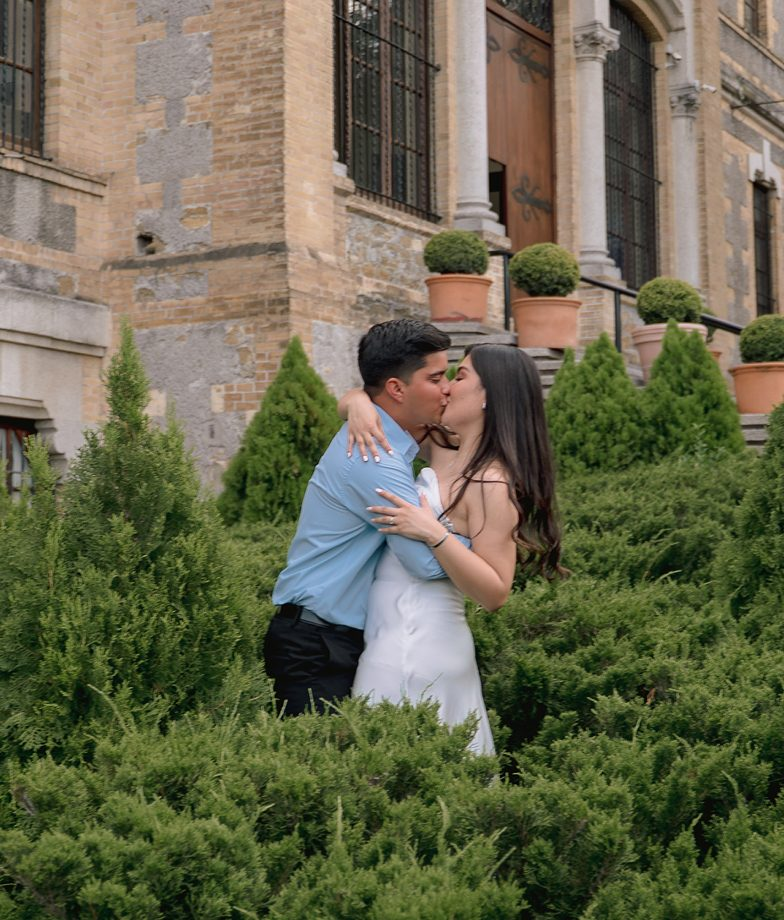
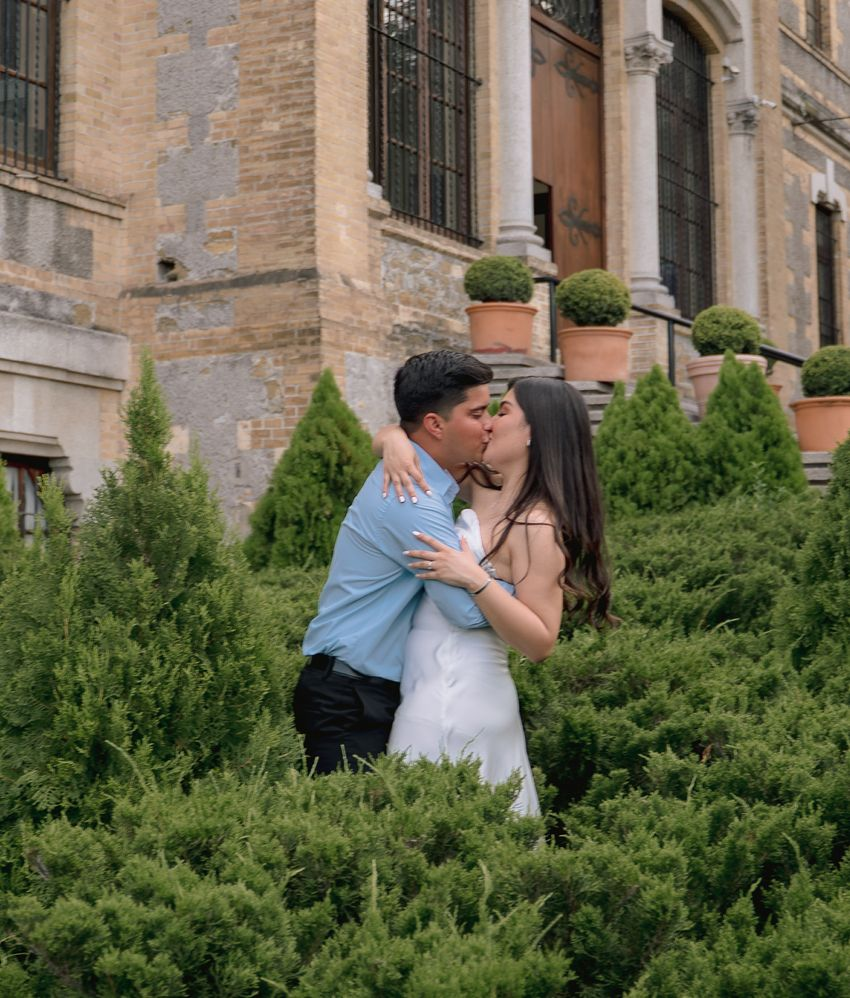
Rehace las 17 fotos de escritorio y pasa todo el sitio a WebP
Cierra lo que quedaba de la auditoria: hero, save the date y pie servian
entre el 75% y el 79% de lo que pide un portatil Retina, y las 12 del slider
el 98%. Rehechas desde los originales de la sesion:

  hero-desktop        2400x1487 -> 2604x1613
  save-date-desktop   2268x1731 -> 2400x1832
  footer-desktop      1600x1104 -> 2040x1408
  itinerario-desktop  1000x1362 -> 1100x1498
  form-desktop        1112x1076 -> 1200x1161
  slider 1..12         784x920  ->  850x998

Las medidas salen de medir los contenedores en la pagina y escalarlos a un
portatil de 1512pt a 2x, no de estimarlas.

El encuadre se conservo igual que en las de movil: recortes viejos
recuperados de git y region localizada por correlacion cruzada. Los 17 por
encima de 0.95. Varios recortes eran zooms fuertes —el 12 usa solo el 34% del
ancho del original, el 1 y el 8 el 56%— y se respetaron.

DOS TOPES QUE CONVIENE SABER:

El hero se queda en 2604px, el 86% de los 3024 que pediria cubrirlo del todo.
No es una decision: el original entregado mide 2604 de ancho y el recorte usa
el 100%, asi que no hay mas de donde sacar. Para llegar a 3024 haria falta un
original mas grande de esa foto.

save-date es la foto cara del sitio: blanco y negro, arbustos densos y grano
(desviacion del laplaciano 36.5, cuando por encima de 12 ya se considera
grano). No comprime. Se probo si al ser gris se ganaba algo codificando sin
croma y no: WebP ya lo resuelve. Se eligio 2400px q70, que cubre el 79%
[…]

diff --git a/index.html b/index.html
@@ -2005,7 +2005,7 @@
 
   <div class="page-wrapper">
     <section class="section-hero section">
-      <div class="div-block"><img src="images/hero-desktop-fr.jpg" loading="eager" width="Auto" alt="" class="hero-bg"><picture><source srcset="images/hero-mobile-fr.webp" type="image/webp"><img
+      <div class="div-block"><picture><source srcset="images/hero-desktop-fr.webp" type="image/webp"><img src="images/hero-desktop-fr.jpg" loading="eager" width="Auto" alt="" class="hero-bg"></picture><picture><source srcset="images/hero-mobile-fr.webp" type="image/webp"><img
           src="images/hero-mobile-fr.jpg" loading="lazy" alt="" class="hero-bg-mobile"></picture></div>
       <div class="hero__image-wrapper"><span role="img" aria-label="Fernanda y Roberto"
           class="logo-hero-sm logo-tinta"></span><span role="img" aria-label="Fernanda y Roberto"
@@ -2046,38 +2046,38 @@
         class="w-layout-blockcontainer container-slider desktop w-container">
         <div class="gallery-images desktop">
           <div class="gallery-column top-bottom">
-            <div class="gallery__mage-container"><img data-w-id="3d7170dc-5339-9a1f-2682-d0673b212aa9" alt=""
-                src="images/slider-desktop-fr-1.jpg" loading="lazy" class="gallery-image padding">
+            <div class="gallery__mage-container"><picture><source srcset="images/slider-desktop-fr-1.webp" type="image/webp"><img data-w-id="3d7170dc-5339-9a1f-2682-d0673b212aa9" alt=""
+                src="images/slider-desktop-fr-1.jpg" loading="lazy" class="gallery-image padding"></picture>
             </div>
-            <div class="gallery__mage-container"><img data-w-id="3d7170dc-5339-9a1f-2682-d0673b212aab" alt=""
-                src="images/slider-desktop-fr-2.jpg" loading="lazy" class="gallery-image"></div>
-            <div class="gallery__mage-container"><img data-w-id="3d7170dc-5339-9a1f-2682-d0673b212aad" alt=""
-                src="images/slider-desktop-fr-3.jpg" loading="lazy" class="gallery-image"></div>
-            <div class="gallery__mage-container"><img data-w-id="3d7170dc-5339-9a1f-2682-d0673b212aaf" alt=""
-                src="images/slider-desktop-fr-4.jpg" loading="lazy" class="gallery-image"></div>
+            <div class="gallery__mage-container"><picture><source srcset="images/slider-desktop-fr-2.webp" type="image/webp"><img data-w-id="3d7170dc-5339-9a1f-2682-d0673b212aab" alt=""
+                src="images/slider-desktop-fr-2.jpg" loading="lazy" class="gallery-image"></picture></div>
+            <div class="gallery__mage-container"><picture><source srcset="images/slider-desktop-fr-3.webp" type="image/webp"><img data-w-id="3d7170dc-5339-9a1f-2682-d0673b212aad" alt=""
+                src="images/slider-desktop-fr-3.jpg" loading="lazy" class="gallery-image"></picture></div>
+            <div class="gallery__mage-container"><picture><source srcset="images/slider-desktop-fr-4.webp" type="image/webp"><img data-w-id="3d7170dc-5339-9a1f-2682-d0673b212aaf" alt=""
+                src="images/slider-desktop-fr-4.jpg" loading="lazy" class="gallery-image"></picture></div>
           </div>
           <div class="gallery-column botom-top">
-            <div class="gallery__mage-container"><img alt=""
-                src="images/slider-desktop-fr-5.jpg" loading="lazy" class="gallery-image"></div>
-            <div class="gallery__mage-container"><img data-w-id="3d7170dc-5339-9a1f-2682-d0673b212ab4" alt=""
-                src="images/slider-desktop-fr-6.jpg" loading="lazy" class="gallery-image"></div>
-            <div class="gallery__mage-container"><img data-w-id="3d7170dc-5339-9a1f-2682-d0673b212ab6" alt=""
-                src="images/slider-desktop-fr-7.jpg" loading="lazy" class="gallery-image"></div>
-            <div class="gallery__mage-container"><img data-w-id="3d7170dc-5339-9a1f-2682-d0673b212ab8" alt=""
-                src="images/slider-desktop-fr-8.jpg" loading="lazy" class="gallery-image"></div>
-            <div class="gallery__mage-container"><img data-w-id="3d7170dc-5339-9a1f-2682-d0673b212aba" alt=""
-                src="images/slider-desktop-fr-5.jpg" loading="lazy" class="gallery-image"></div>
+            <div class="gallery__mage-container"><picture><source srcset="images/slider-desktop-fr-5.webp" type="image/webp"><img alt=""
+                src="images/slider-desktop-fr-5.jpg" loading="lazy" class="gallery-image"></picture></div>
+            <div class="gallery__mage-container"><picture><source srcset="images/slider-desktop-fr-6.webp" type="image/webp"><img data-w-id="3d7170dc-5339-9a1f-2682-d0673b212ab4" alt=""
+                src="images/slider-desktop-fr-6.jpg" loading="lazy" class="gallery-image"></picture></div>
+            <div class="gallery__mage-container"><picture><source srcset="images/slider-desktop-fr-7.webp" type="image/webp"><img data-w-id="3d7170dc-5339-9a1f-2682-d0673b212ab6" alt=""
+                src="images/slider-desktop-fr-7.jpg" loading="lazy" class="gallery-image"></picture></div>
+            <div class="gallery__mage-container"><picture><source srcset="images/slider-desktop-fr-8.webp" type="image/webp"><img data-w-id="3d7170dc-5339-9a1f-2682-d0673b212ab8" alt=""
+                src="images/slider-desktop-fr-8.jpg" loading="lazy" class="gallery-image"></picture></div>
+            <div class="gallery__mage-container"><picture><source srcset="images/slider-desktop-fr-5.webp" type="image/webp"><img data-w-id="3d7170dc-5339-9a1f-2682-d0673b212aba" alt=""
+                src="images/slider-desktop-fr-5.jpg" loading="lazy" class="gallery-image"></picture></div>
           </div>
           <div class="gallery-column top-bottom">
-            <div class="gallery__mage-container"><img data-w-id="3d7170dc-5339-9a1f-2682-d0673b212abd" alt=""
-                src="images/slider-desktop-fr-9.jpg" loading="lazy" class="gallery-image padding">
+            <div class="gallery__mage-container"><picture><source srcset="images/slider-desktop-fr-9.webp" type="image/webp"><img data-w-id="3d7170dc-5339-9a1f-2682-d0673b212abd" alt=""
+                src="images/slider-desktop-fr-9.jpg" loading="lazy" class="gallery-image padding"></picture>
             </div>
-            <div class="gallery__mage-container"><img data-w-id="3d7170dc-5339-9a1f-2682-d0673b212abf" alt=""
-                src="images/slider-desktop-fr-10.jpg" loading="lazy" class="gallery-image"></div>
-            <div class="gallery__mage-container"><img data-w-id="3d7170dc-5339-9a1f-2682-d0673b212ac1" alt=""
-                src="images/slider-desktop-fr-11.jpg" loading="lazy" class="gallery-image"></div>
-            <div class="gallery__mage-container"><img data-w-id="3d7170dc-5339-9a1f-2682-d0673b212ac3" alt=""
-                src="images/slider-desktop-fr-12.jpg" loading="lazy" class="gallery-image"></div>
+            <div class="gallery__mage-container"><picture><source srcset="images/slider-desktop-fr-10.webp" type="image/webp"><img data-w-id="3d7170dc-5339-9a1f-2682-d0673b212abf" alt=""
+                src="images/slider-desktop-fr-10.jpg" loading="lazy" class="gallery-image"></picture></div>
+            <div class="gallery__mage-container"><picture><source srcset="images/slider-desktop-fr-11.webp" type="image/webp"><img data-w-id="3d7170dc-5339-9a1f-2682-d0673b212ac1" alt=""
+                src="images/slider-desktop-fr-11.jpg" loading="lazy" class="gallery-image"></picture></div>
+            <div class="gallery__mage-container"><picture><source srcset="images/slider-desktop-fr-12.webp" type="image/webp"><img data-w-id="3d7170dc-5339-9a1f-2682-d0673b212ac3" alt=""
+                src="images/slider-desktop-fr-12.jpg" loading="lazy" class="gallery-image"></picture></div>
           </div>
         </div>
         <div class="gallery-images mobile">
@@ -2122,6 +2122,7 @@
             <picture>
               <source media="(max-width: 767px)" type="image/webp" srcset="images/itinerario-mobile-fr.webp">
               <source media="(max-width: 767px)" srcset="images/itinerario-mobile-fr.jpg">
+              <source type="image/webp" srcset="images/itinerario-desktop-fr.webp">
               <img src="images/itinerario-desktop-fr.jpg" loading="lazy" alt="" class="image-3">
             </picture>
           </div>
@@ -2204,7 +2205,8 @@
         <picture>
           <source media="(max-width: 767px)" type="image/webp" srcset="images/save-date-mobile-fr.webp">
               <source media="(max-width: 767px)" srcset="images/save-date-mobile-fr.jpg">
-          <img src="images/save-date-desktop-fr.jpg" loading="lazy"
+          <source type="image/webp" srcset="images/save-date-desktop-fr.webp">
+              <img src="images/save-date-desktop-fr.jpg" loading="lazy"
             data-w-id="8f9860fb-0535-2ff2-ee87-84484ccd40b9" alt="" class="image-7">
         </picture>
       </div>
@@ -2249,6 +2251,7 @@
             <picture>
               <source media="(max-width: 767px)" type="image/webp" srcset="images/form-mobile-fr.webp">
               <source media="(max-width: 767px)" srcset="images/form-mobile-fr.jpg">
+              <source type="image/webp" srcset="images/form-desktop-fr.webp">
               <img src="images/form-desktop-fr.jpg" loading="lazy"
                 data-w-id="d141b00a-b9ab-bc81-c67e-60cb82b64fd8" alt="" class="form-img">
             </picture>
@@ -2323,8 +2326,8 @@
       <p class="footer_hash heading-3 reveal-up reveal-delay-2">#FeryBeto</p>
       <div>
         <div class="div-block-7">
-          <div class="footer_image-wrapper"><img src="images/footer-desktop-fr.jpg" loading="lazy" width="777" alt=""
-              class="footer_image-card"><picture><source srcset="images/footer-mobile-fr.webp" type="image/webp"><img src="images/footer-mobile-fr.jpg" loading="lazy" width="777" alt=""
+          <div class="footer_image-wrapper"><picture><source srcset="images/footer-desktop-fr.webp" type="image/webp"><img src="images/footer-desktop-fr.jpg" loading="lazy" width="777" alt=""
+              class="footer_image-card"></picture><picture><source srcset="images/footer-mobile-fr.webp" type="image/webp"><img src="images/footer-mobile-fr.jpg" loading="lazy" width="777" alt=""
               class="footer_image-card mobile"></picture></div>
           <div class="footer__text-wrapper">
             <div class="footer_image-text reveal-up">
